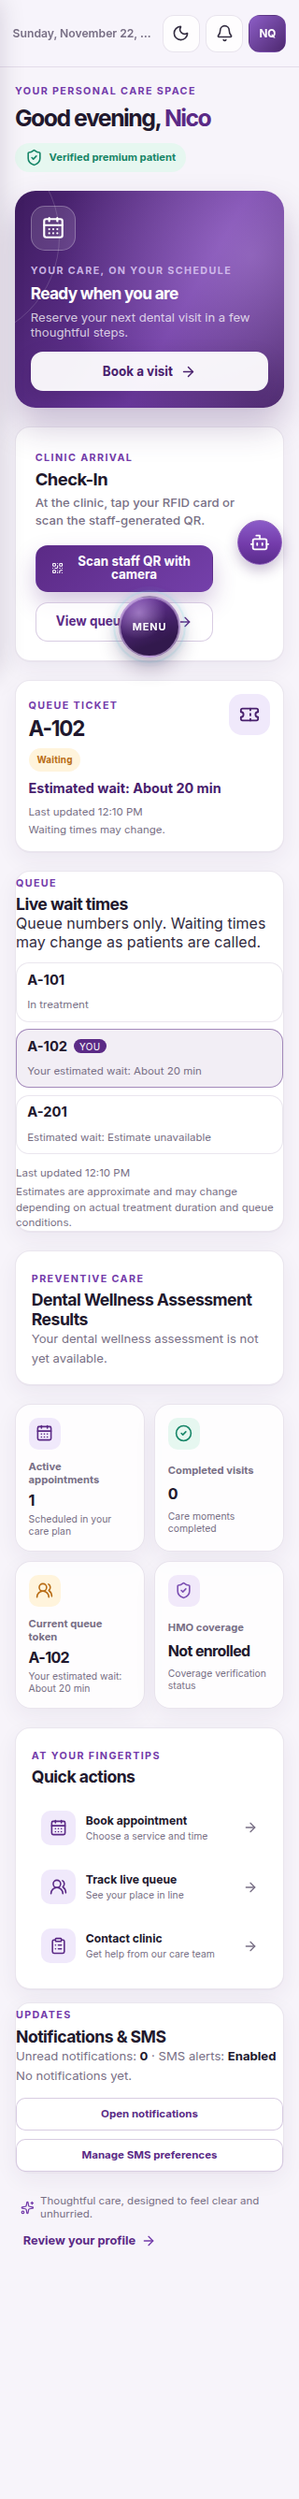
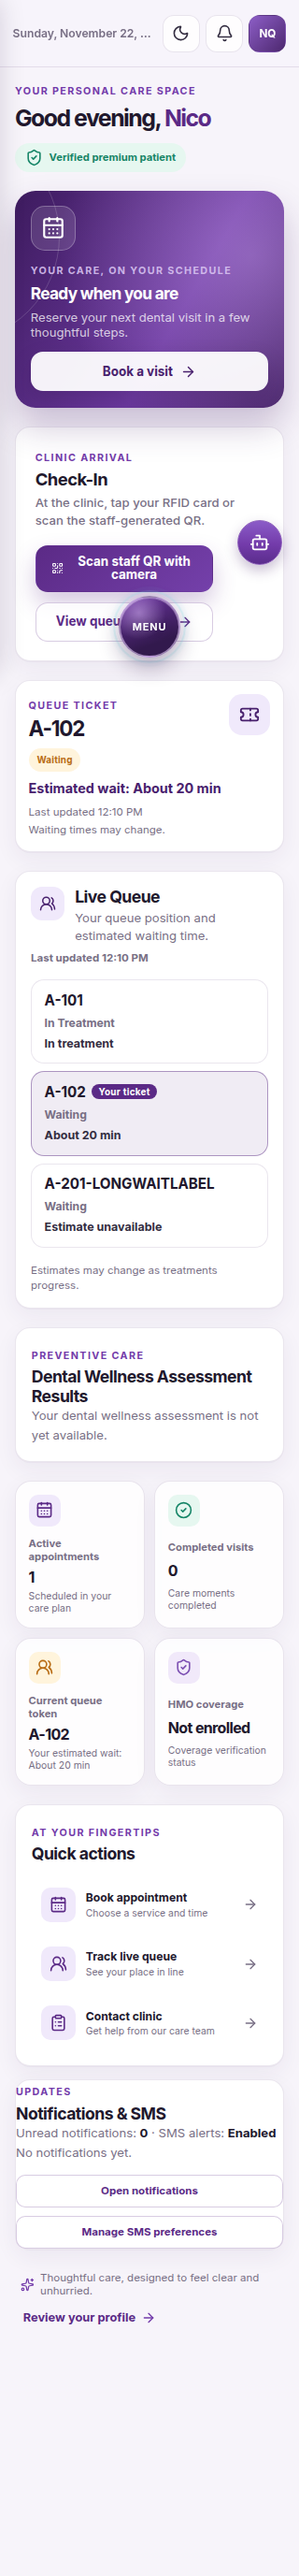
Restyle the Patient Dashboard Live Queue card.
Give the wait board consistent padding, a clear header, a compact empty state, and one footer, and highlight the signed-in patient's ticket without changing estimate logic.

Changed region(s): [[0.0312, 0.0311, 0.9375, 0.9008], [0.875, 0.4038, 0.9062, 0.497], [0.75, 0.3728, 0.8125, 0.4038]]

diff --git a/backend/test/patientQueueWaitBoard.browser.test.js b/backend/test/patientQueueWaitBoard.browser.test.js
@@ -29,6 +29,7 @@ test("Patient Dashboard Queue shows compact waits at 320, 390, and desktop", { t
     phone: "09170007001",
     role: "patient",
   };
+  let emptyBoard = false;
   const board = {
     entries: [
       {
@@ -44,7 +45,7 @@ test("Patient Dashboard Queue shows compact waits at 320, 390, and desktop", { t
         waitEstimate: { unavailable: false, estimatedWaitMinutes: { min: 20, max: 20 }, calculatedAt: "2026-11-22T04:10:00.000Z" },
       },
       {
-        token: "A-201",
+        token: "A-201-LONGWAITLABEL",
         status: "waiting",
         isCurrentPatient: false,
         waitEstimate: { unavailable: true },
@@ -52,6 +53,7 @@ test("Patient Dashboard Queue shows compact waits at 320, 390, and desktop", { t
     ],
     lastUpdatedAt: "2026-11-22T04:10:00.000Z",
   };
+  const emptyPayload = { entries: [], lastUpdatedAt: null };
 
   const app = express();
   app.use(express.json());
@@ -81,8 +83,8 @@ test("Patient Dashboard Queue shows compact waits at 320, 390, and desktop", { t
       nextAppointment: null,
       metrics: { activeAppointments: 1, completedVisits: 0, queueToken: "A-102", hmoStatus: "not_enrolled" },
       wellness: { hasAssessment: false },
-      queue: board.entries.find((row) => row.isCurrentPatient),
-      queueBoard: board,
+      queue: emptyBoard ? null : board.entries.find((row) => row.isCurrentPatient),
+      queueBoard: emptyBoard ? emptyPayload : board,
       unreadNotifications: 0,
       recentNotifications: [],
       smsPreferences: { notifySms: true },
@@ -91,9 +93,9 @@ test("Patient Dashboard Queue shows compact waits at 320, 390, and desktop", { t
   app.get("/api/patient/queue", (_req, res) =>
     res.json({
       nowServing: "A-101",
-      current: { ...board.entries[1], id: 2, token: "A-102", steps: [] },
-      queue: board.entries,
-      lastUpdatedAt: board.lastUpdatedAt,
+      current: emptyBoard ? null : { ...board.entries[1], id: 2, token: "A-102", steps: [] },
+      queue: emptyBoard ? [] : board.entries,
+      lastUpdatedAt: emptyBoard ? null : board.lastUpdatedAt,
       notifyWhenNear: false,
     })
   );
@@ -170,20 +172,26 @@ test("Patient Dashboard Queue shows compact waits at 320, 390, and desktop", { t
 
   await open("/dashboard", 1280, 900, false);
   const desktop = await page.evaluate(() => document.body.innerText);
-  assert.match(desktop, /Live wait times/);
-  assert.match(desktop, /Your estimated wait: About 20 min/);
+  assert.match(desktop, /Live Queue/);
+  assert.match(desktop, /Your queue position and estimated waiting time/);
+  assert.match(desktop, /Your ticket/);
+  assert.match(desktop, /About 20 min/);
   assert.match(desktop, /Estimated wait: About 20 min/);
   assert.match(desktop, /QUEUE TICKET/i);
-  assert.match(desktop, /Waiting times may change/);
+  assert.match(desktop, /Estimates may change as treatments progress/);
   assert.match(desktop, /In treatment/);
   assert.match(desktop, /Estimate unavailable/);
-  assert.match(desktop, /Last updated/);
+  assert.match(desktop, /Last updated 12:10 PM/);
+  assert.doesNotMatch(desktop, /Last updated —/);
+  assert.doesNotMatch(desktop, /Queue numbers only/);
   assert.doesNotMatch(desktop, /nico\.queue@example\.test/);
   await shot("patient-dashboard-queue-desktop.png");
 
   await open("/queue", 1280, 900, false);
   const queueText = await page.evaluate(() => document.body.innerText);
-  assert.match(queueText, /Your estimated wait: About 20 min/);
+  assert.match(queueText, /Live Queue/);
+  assert.match(queueText, /Your ticket/);
+  assert.match(queueText, /About 20 min/);
   assert.match(queueText, /Estimated wait: About 20 min/);
   await shot("patient-queue-page-desktop.png");
 
@@ -200,4 +208,21 @@ test("Patient Dashboard Queue shows compact waits at 320, 390, and desktop", { t
   );
   assert.equal(overflow320, false);
   await shot("patient-dashboard-queue-320.png");
+
+  emptyBoard = true;
+  await open("/dashboard", 1280, 900, false);
+  const emptyDesktop = await page.evaluate(() => document.body.innerText);
+  assert.match(emptyDesktop, /No active queue ticket/);
+  assert.match(emptyDesktop, /Check in at the clinic to see your queue number and estimated wait/);
+  assert.doesNotMatch(emptyDesktop, /Last updated —/);
+  await shot("patient-dashboard-queue-empty-desktop.png");
+
+  await open("/dashboard", 390, 844, true);
+  await shot("patient-dashboard-queue-empty-390.png");
+  await open("/dashboard", 320, 720, true);
+  const emptyOverflow = await page.evaluate(
+    () => document.documentElement.scrollWidth > document.documentElement.clientWidth + 1
+  );
+  assert.equal(emptyOverflow, false);
+  await shot("patient-dashboard-queue-empty-320.png");
 });

diff --git a/frontend/src/index.css b/frontend/src/index.css
@@ -1818,7 +1818,55 @@ html[data-theme="dark"] .portal-shell[data-theme="dark"] ~ .tooth-loader .tooth-
 
 .patient-queue-board {
   display: grid;
-  gap: 0.75rem;
+  gap: 1rem;
+  min-width: 0;
+  padding: 1.5rem;
+}
+
+.patient-queue-board__header {
+  display: flex;
+  flex-wrap: wrap;
+  align-items: flex-start;
+  justify-content: space-between;
+  gap: 0.5rem 1rem;
+}
+
+.patient-queue-board__title {
+  display: flex;
+  align-items: flex-start;
+  gap: 0.7rem;
+  min-width: 0;
+}
+
+.patient-queue-board__icon {
+  display: grid;
+  width: 36px;
+  height: 36px;
+  flex-shrink: 0;
+  place-items: center;
+  border-radius: 12px;
+  color: var(--amethyst-800);
+  background: var(--amethyst-100);
+}
+
+.patient-queue-board__title h2 {
+  margin: 0;
+  font-size: 1.1rem;
+  letter-spacing: -0.03em;
+}
+
+.patient-queue-board__title p {
+  margin: 0.22rem 0 0;
+  color: var(--text-muted);
+  font-size: 0.82rem;
+  line-height: 1.4;
+}
+
+.patient-queue-board__updated {
+  margin: 0;
+  color: var(--text-muted);
+  font-size: 0.72rem;
+  font-weight: 650;
 }
 
 .patient-queue-board__list {
@@ -1826,74 +1874,112 @@ html[data-theme="dark"] .portal-shell[data-theme="dark"] ~ .tooth-loader .tooth-
   margin: 0;
   padding: 0;
   display: grid;
-  gap: 0.45rem;
+  gap: 0.5rem;
 }
 
 .patient-queue-board__row {
-  display: flex;
+  display: grid;
+  grid-template-columns: minmax(0, 1.1fr) minmax(0, 0.7fr) minmax(0, 1fr);
   align-items: center;
-  justify-content: space-between;
-  gap: 0.65rem;
+  gap: 0.45rem 0.75rem;
   min-width: 0;
-  padding: 0.55rem 0.7rem;
+  padding: 0.72rem 0.85rem;
   border: 1px solid var(--border);
   border-radius: 14px;
   background: var(--surface);
 }
 
-.patient-queue-board__row > div {
+.patient-queue-board__identity {
   display: flex;
+  flex-wrap: wrap;
   align-items: center;
   gap: 0.4rem;
   min-width: 0;
 }
 
 .patient-queue-board__row strong {
-  font-size: 0.92rem;
+  font-size: 0.95rem;
+  overflow-wrap: anywhere;
 }
 
-.patient-queue-board__row small {
+.patient-queue-board__status {
   color: var(--text-muted);
-  font-size: 0.72rem;
+  font-size: 0.76rem;
+  font-weight: 650;
+}
+
+.patient-queue-board__wait {
+  color: var(--text);
+  font-size: 0.78rem;
+  font-weight: 750;
   text-align: right;
   line-height: 1.35;
+  overflow-wrap: anywhere;
 }
 
 .patient-queue-board__row.is-you {
-  border-color: color-mix(in srgb, var(--amethyst-700, #6b4bb8) 45%, var(--border));
-  background: color-mix(in srgb, var(--amethyst-700, #6b4bb8) 8%, var(--surface));
+  border-color: color-mix(in srgb, var(--amethyst-700, #6b4bb8) 38%, var(--border));
+  background: color-mix(in srgb, var(--amethyst-700, #6b4bb8) 9%, var(--surface));
 }
 
 .patient-queue-board__you {
   flex-shrink: 0;
-  padding: 0.08rem 0.4rem;
+  padding: 0.12rem 0.45rem;
   border-radius: 999px;
   background: var(--amethyst-700, #6b4bb8);
   color: #fff;
   font-size: 0.62rem;
-  letter-spacing: 0.04em;
-  text-transform: uppercase;
+  font-weight: 750;
+  letter-spacing: 0.03em;
 }
 
-.patient-queue-board__meta {
+.patient-queue-board__empty {
   display: grid;
-  gap: 0.2rem;
+  justify-items: center;
+  gap: 0.28rem;
+  padding: 0.35rem 0.25rem 0.15rem;
+  text-align: center;
+}
+
+.patient-queue-board__empty strong {
+  color: var(--text-strong);
+  font-size: 0.95rem;
+}
+
+.patient-queue-board__empty p {
+  margin: 0;
+  max-width: 22rem;
+  color: var(--text-muted);
+  font-size: 0.8rem;
+  line-height: 1.45;
+}
+
+.patient-queue-board__footer {
   margin: 0;
   color: var(--text-muted);
   font-size: 0.72rem;
-  line-height: 1.45;
+  line-height: 1.4;
+}
+
+@media (max-width: 760px) {
+  .patient-queue-board {
+    padding: 1rem;
+  }
 }
 
 @media (max-width: 390px) {
   .patient-queue-ticket {
     padding: 1rem 0.95rem;
   }
-  .patient-queue-board__row {
+  .patient-queue-board__header {
     flex-direction: column;
+  }
+  .patient-queue-board__row {
+    grid-template-columns: minmax(0, 1fr);
     align-items: flex-start;
   }
-
-  .patient-queue-board__row small {
+  .patient-queue-board__wait,
+  .patient-queue-board__status {
     text-align: left;
   }
 }

diff --git a/frontend/src/components/PatientQueueBoard.jsx b/frontend/src/components/PatientQueueBoard.jsx
@@ -1,22 +1,30 @@
-import { compactQueueWaitCaption, formatWaitUpdatedAt, QUEUE_WAIT_DISCLAIMER } from "../utils/queueWaitEstimate";
+import { UsersRound } from "lucide-react";
+import { displayQueueStatus } from "../utils/walkInQr";
+import { formatWaitUpdatedAt, queueStatusWaitLabel } from "../utils/queueWaitEstimate";
+
+export const LIVE_QUEUE_FOOTER = "Estimates may change as treatments progress.";
 
 export function PatientQueueBoard({
   entries = [],
   lastUpdatedAt,
-  emptyDetail = "When you check in, your queue number and estimated wait appear here.",
 }) {
   const updated = formatWaitUpdatedAt(lastUpdatedAt);
   const rows = Array.isArray(entries) ? entries : [];
 
   return (
-    <section className="glass-card patient-queue-board" aria-label="Clinic queue">
-      <div className="card-heading">
-        <div>
-          <span className="eyebrow">Queue</span>
-          <h2>Live wait times</h2>
-          <p>Queue numbers only. Waiting times may change as patients are called.</p>
+    <section className="glass-card patient-queue-board" aria-label="Live queue">
+      <header className="patient-queue-board__header">
+        <div className="patient-queue-board__title">
+          <span className="patient-queue-board__icon" aria-hidden="true">
+            <UsersRound size={18} />
+          </span>
+          <div>
+            <h2>Live Queue</h2>
+            <p>Your queue position and estimated waiting time.</p>
+          </div>
         </div>
-      </div>
+        {updated ? <p className="patient-queue-board__updated">Last updated {updated}</p> : null}
+      </header>
       {rows.length ? (
         <ul className="patient-queue-board__list">
           {rows.map((entry) => {
@@ -26,22 +34,23 @@ export function PatientQueueBoard({
                 key={entry.token || entry.queueNumber}
                 className={`patient-queue-board__row${yours ? " is-you" : ""}`}
               >
-                <div>
+                <div className="patient-queue-board__identity">
                   <strong>{entry.token || entry.queueNumber}</strong>
-                  {yours ? <span className="patient-queue-board__you">You</span> : null}
+                  {yours ? <span className="patient-queue-board__you">Your ticket</span> : null}
                 </div>
-                <small>{compactQueueWaitCaption(entry)}</small>
+                <span className="patient-queue-board__status">{displayQueueStatus(entry.status)}</span>
+                <span className="patient-queue-board__wait">{queueStatusWaitLabel(entry)}</span>
               </li>
             );
           })}
         </ul>
       ) : (
-        <p className="muted-copy">{emptyDetail}</p>
+        <div className="patient-queue-board__empty">
+          <strong>No active queue ticket</strong>
+          <p>Check in at the clinic to see your queue number and estimated wait.</p>
+        </div>
       )}
-      <p className="patient-queue-board__meta">
-        {updated ? <span>Last updated {updated}</span> : <span>Last updated —</span>}
-        <span>{QUEUE_WAIT_DISCLAIMER}</span>
-      </p>
+      <p className="patient-queue-board__footer">{LIVE_QUEUE_FOOTER}</p>
     </section>
   );
 }

diff --git a/frontend/src/pages/patientLiveQueueCard.test.js b/frontend/src/pages/patientLiveQueueCard.test.js
@@ -1,0 +1,29 @@
+import assert from "node:assert/strict";
+import fs from "node:fs";
+import path from "path";
+import test from "node:test";
+import { fileURLToPath } from "node:url";
+
+const root = path.join(path.dirname(fileURLToPath(import.meta.url)), "..");
+const css = fs.readFileSync(path.join(root, "index.css"), "utf8");
+const board = fs.readFileSync(path.join(root, "components", "PatientQueueBoard.jsx"), "utf8");
+
+test("Live Queue card has a titled header, one subtitle, and a single footer", () => {
+  assert.match(board, /Live Queue/);
+  assert.match(board, /Your queue position and estimated waiting time/);
+  assert.match(board, /UsersRound/);
+  assert.match(board, /Your ticket/);
+  assert.match(board, /No active queue ticket/);
+  assert.match(board, /Check in at the clinic to see your queue number and estimated wait/);
+  assert.match(board, /Estimates may change as treatments progress/);
+  assert.doesNotMatch(board, /Last updated —/);
+  assert.doesNotMatch(board, /Queue numbers only/);
+  assert.doesNotMatch(board, /QUEUE_WAIT_DISCLAIMER/);
+});
+
+test("Live Queue padding is 24px on desktop and 16px on small screens", () => {
+  assert.match(css, /\.patient-queue-board \{[\s\S]*padding: 1\.5rem;/);
+  assert.match(css, /@media \(max-width: 760px\) \{[\s\S]*\.patient-queue-board \{[\s\S]*padding: 1rem;/);
+  assert.match(css, /@media \(max-width: 390px\) \{[\s\S]*\.patient-queue-board__header \{[\s\S]*flex-direction: column;/);
+  assert.match(css, /\.patient-queue-board__empty \{[\s\S]*text-align: center;/);
+});
